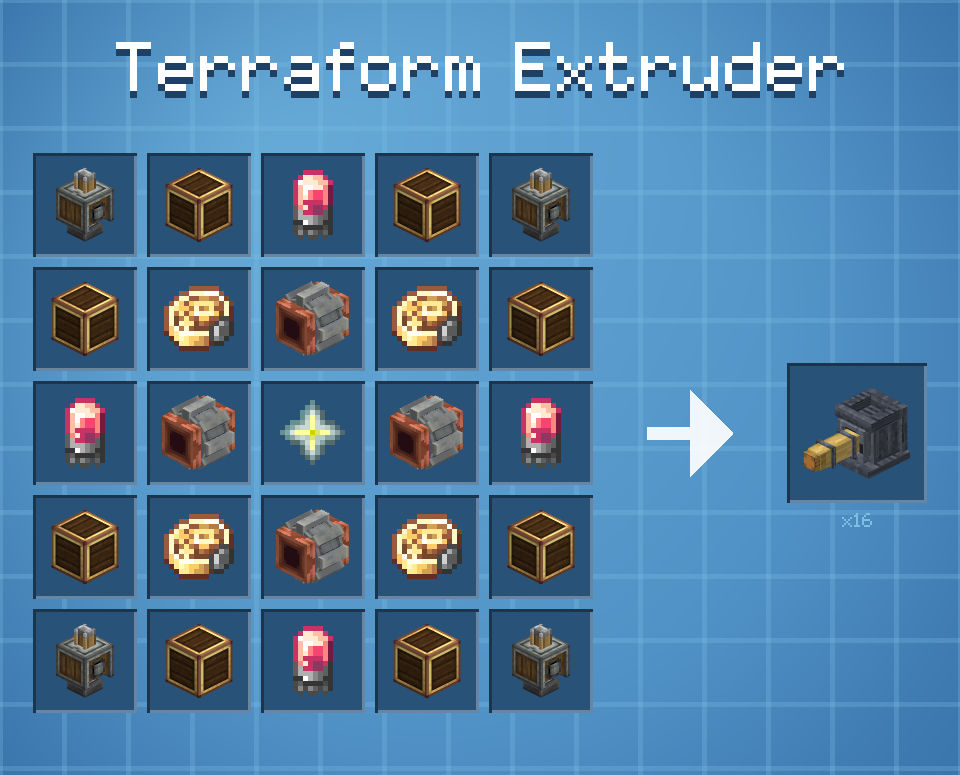
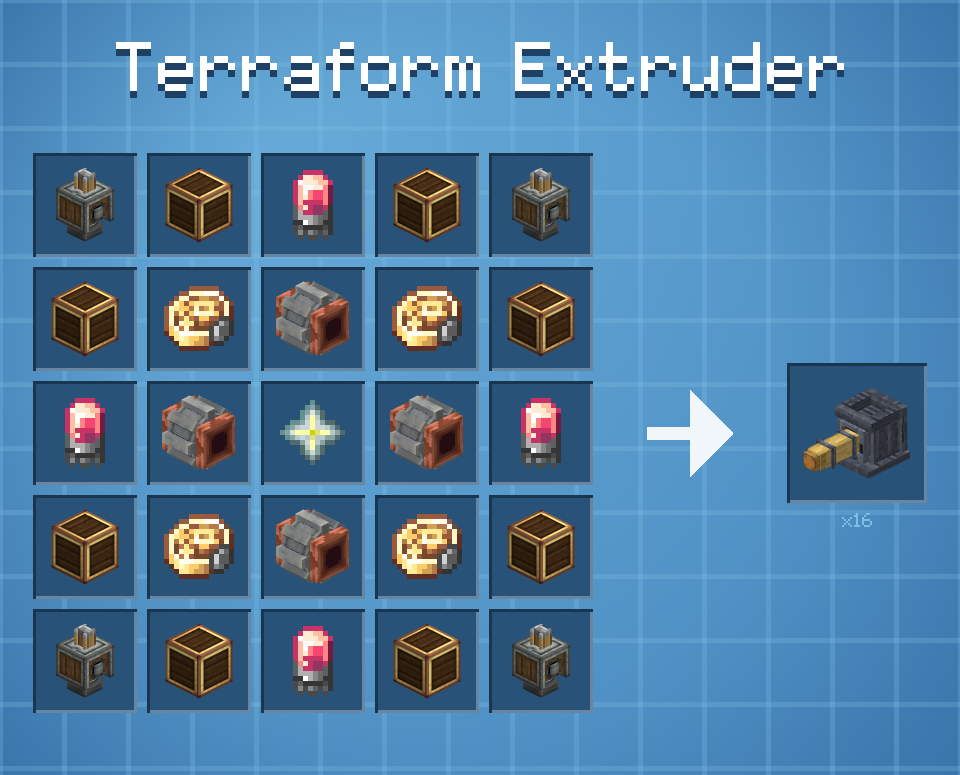
Read an item's GUI rotation from its whole parent chain
It is rarely stated by the model the item names. create:item/mechanical_pump
is nothing but a parent line, and the rotation that turns a Pump to face
the viewer -- [30, 135, 0] rather than vanilla's [30, 225, 0] -- is two
links down in create:block/mechanical_pump/item. Reading only the first
link handed every Create block the default, so the Pump faced the wrong
way in the recipe sheet.

Nothing changes for the Press or the Brass Casing: they really do use the
default, and now they are shown to rather than assumed to.

Claude-Session: https://claude.ai/code/session_0132JF9mQgLwheJRjZxYX5xh

diff --git a/tools/generate_page_art.py b/tools/generate_page_art.py
@@ -603,7 +603,7 @@ class Sprites:
             sheets[value] = pixels
 
         model = {'textures': textures, 'elements': elements}
-        camera = camera_for(gui_rotation(chain[0]))
+        camera = camera_for(gui_rotation(*chain))
         span_width, span_height = extent_of(model, camera)
         return render_block_model.render_model(
             model, int(round(min(size / span_width, size / span_height))),
@@ -710,12 +710,20 @@ def camera_for(rotation):
     return (-math.sin(yaw), math.tan(pitch) if pitch else 0.0, math.cos(yaw))
 
 
-def gui_rotation(model):
-    """A model's GUI rotation, or the one its vanilla parent would have given it."""
-    display = (model or {}).get('display') or {}
-    gui = display.get('gui') or {}
-    rotation = gui.get('rotation')
-    return tuple(rotation) if rotation else DEFAULT_GUI_ROTATION
+def gui_rotation(*chain):
+    """
+    A model's GUI rotation, taken from the first model in its parent chain that states one.
+
+    It is rarely the model named by the item. `create:item/mechanical_pump` is nothing but a parent
+    line, and the rotation that turns a Pump to face the viewer -- [30, 135, 0] rather than
+    vanilla's [30, 225, 0] -- is two links down in `create:block/mechanical_pump/item`. Reading only
+    the first link gave every Create block the default, which is why the Pump faced the wrong way.
+    """
+    for model in chain:
+        gui = ((model or {}).get('display') or {}).get('gui') or {}
+        if gui.get('rotation'):
+            return tuple(gui['rotation'])
+    return DEFAULT_GUI_ROTATION
 
 
 def cube_model(reference):
